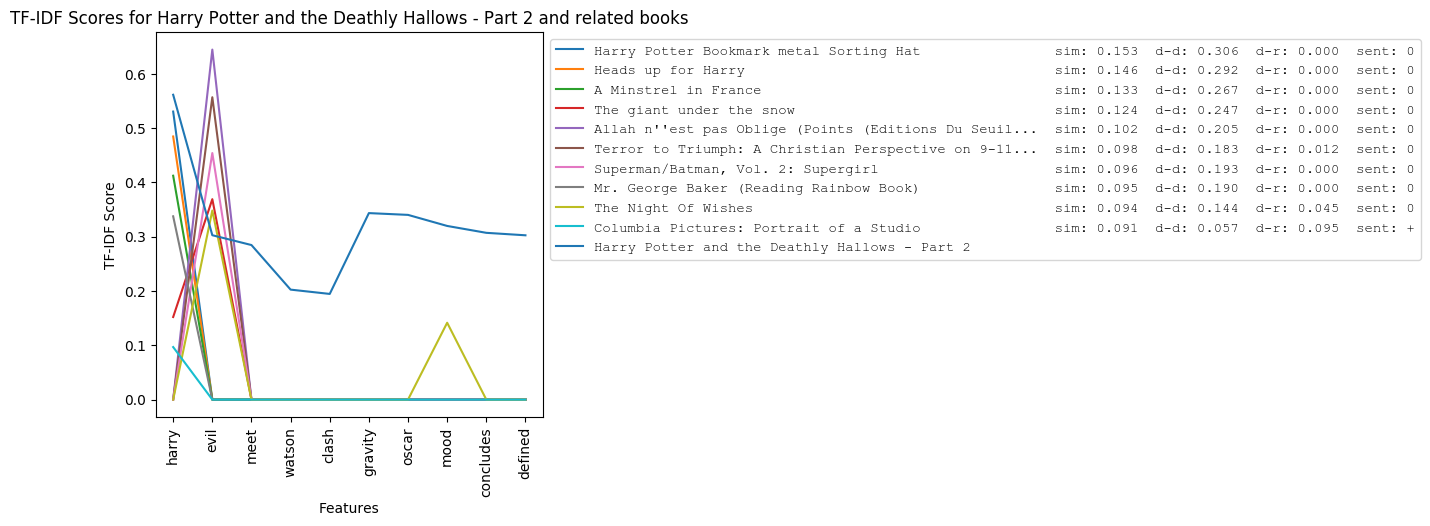
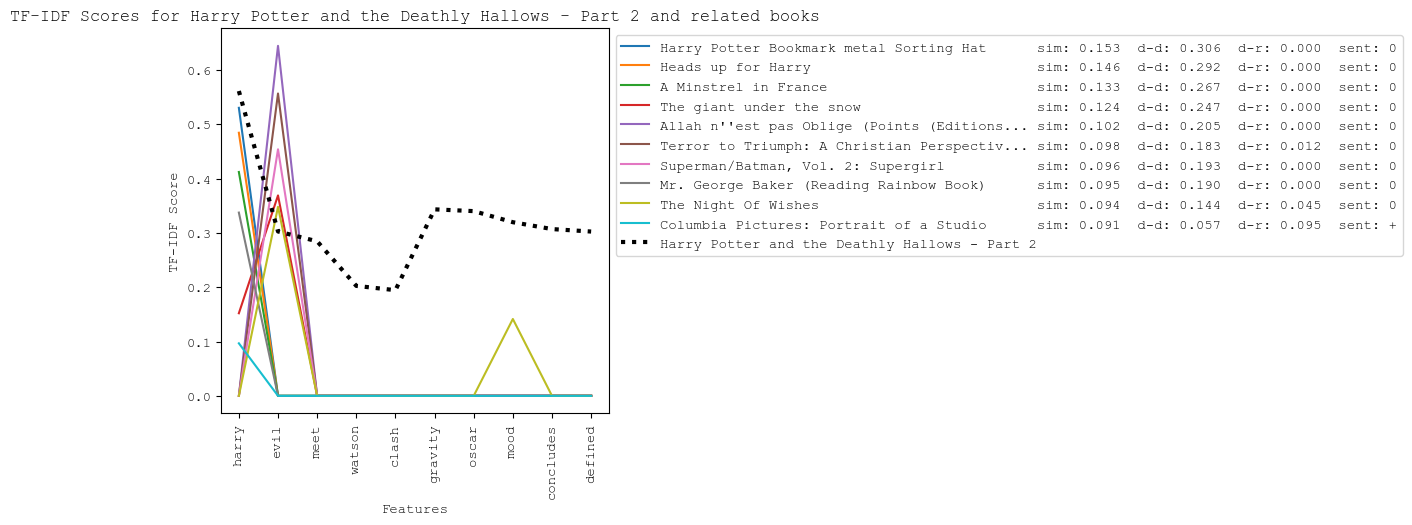
formatted plot better

diff --git a/backend/app.py b/backend/app.py
@@ -1,33 +1,34 @@
 
+import matplotlib.pyplot as plt
+import io
+from flask import Response
+from textblob import TextBlob
+import numpy as np
+from sklearn.metrics.pairwise import cosine_similarity
+from sklearn.feature_extraction.text import TfidfVectorizer
+import pandas as pd
+import csv
+import json
+from flask import Flask, render_template, request
+from flask_cors import CORS
+from collections import defaultdict
+import matplotlib
 import os
 
-pand = "python -m pip install pandas"
-skl = "python -m pip install scikit-learn"
-nump = "python pip install numpy"
-tb = "python -m pip install textblob"
-mlib = "python -m pip install matplotlib"
-os.system(pand)
-os.system(skl)
-os.system(nump)
-os.system(tb)
-os.system(mlib)
+# pand = "python -m pip install pandas"
+# skl = "python -m pip install scikit-learn"
+# nump = "python pip install numpy"
+# tb = "python -m pip install textblob"
+# mlib = "python -m pip install matplotlib"
+# os.system(pand)
+# os.system(skl)
+# os.system(nump)
+# os.system(tb)
+# os.system(mlib)
 
-import matplotlib
-from collections import defaultdict
-from flask_cors import CORS
-from flask import Flask, render_template, request
-import json
-import csv
-import pandas as pd
-from sklearn.feature_extraction.text import TfidfVectorizer
-from sklearn.metrics.pairwise import cosine_similarity
-import numpy as np
-from textblob import TextBlob
-from flask import Response
-import io
-import matplotlib.pyplot as plt
 
 matplotlib.use('agg')
+plt.rcParams['font.family'] = 'Courier New'
 
 
 os.environ['ROOT_PATH'] = os.path.abspath(os.path.join("..", os.curdir))
@@ -225,14 +226,14 @@ def plot(book_scores, movie_title, top_features, top_scores, dd, rd, book_review
     for i, tup in enumerate(list(book_scores.items())):
         book, scores = tup
         max_len = max(max_len, len(book))
-    bound = 50
+    bound = 40
     if max_len > bound:
         max_len = bound + 3
     for i, tup in enumerate(list(book_scores.items())):
         book, scores = tup
         new_book = book
-        if len(book) > 49:
-            new_book = book[:50] + "..."
+        if len(book) > bound:
+            new_book = book[:bound + 1] + "..."
         line = ax.plot(
             scores, label=f"{new_book}" + " " * (max_len - len(new_book) + 2) + f"sim: {top_scores[book]:.3f}  d-d: {dd[book]:.3f}  d-r: {rd[book]:.3f}  sent: {get_sent(book_review_sents.get(book, [1]))}")
 
@@ -242,15 +243,17 @@ def plot(book_scores, movie_title, top_features, top_scores, dd, rd, book_review
     ax.set_xticklabels(features, rotation=90)
 
     # plot movie
-    ax.plot(feature_vals, label=movie_title)
+    #ax.plot(feature_vals, label=movie_title)
+    ax.plot(feature_vals, label=movie_title,
+            color='black', linestyle=':', linewidth=3)
 
     ax.set_xlabel('Features')
     ax.set_ylabel('TF-IDF Score')
     ax.set_title(f'TF-IDF Scores for {movie_title} and related books')
 
     legend = ax.legend(fontsize=10, loc='upper left', bbox_to_anchor=(1, 1))
-    for text in legend.get_texts():
-        text.set_fontname("Courier New")
+    # for text in legend.get_texts():
+    #     text.set_fontname("Courier New")
 
     buffer = io.BytesIO()
     plt.savefig(buffer, format='png', bbox_inches='tight')
